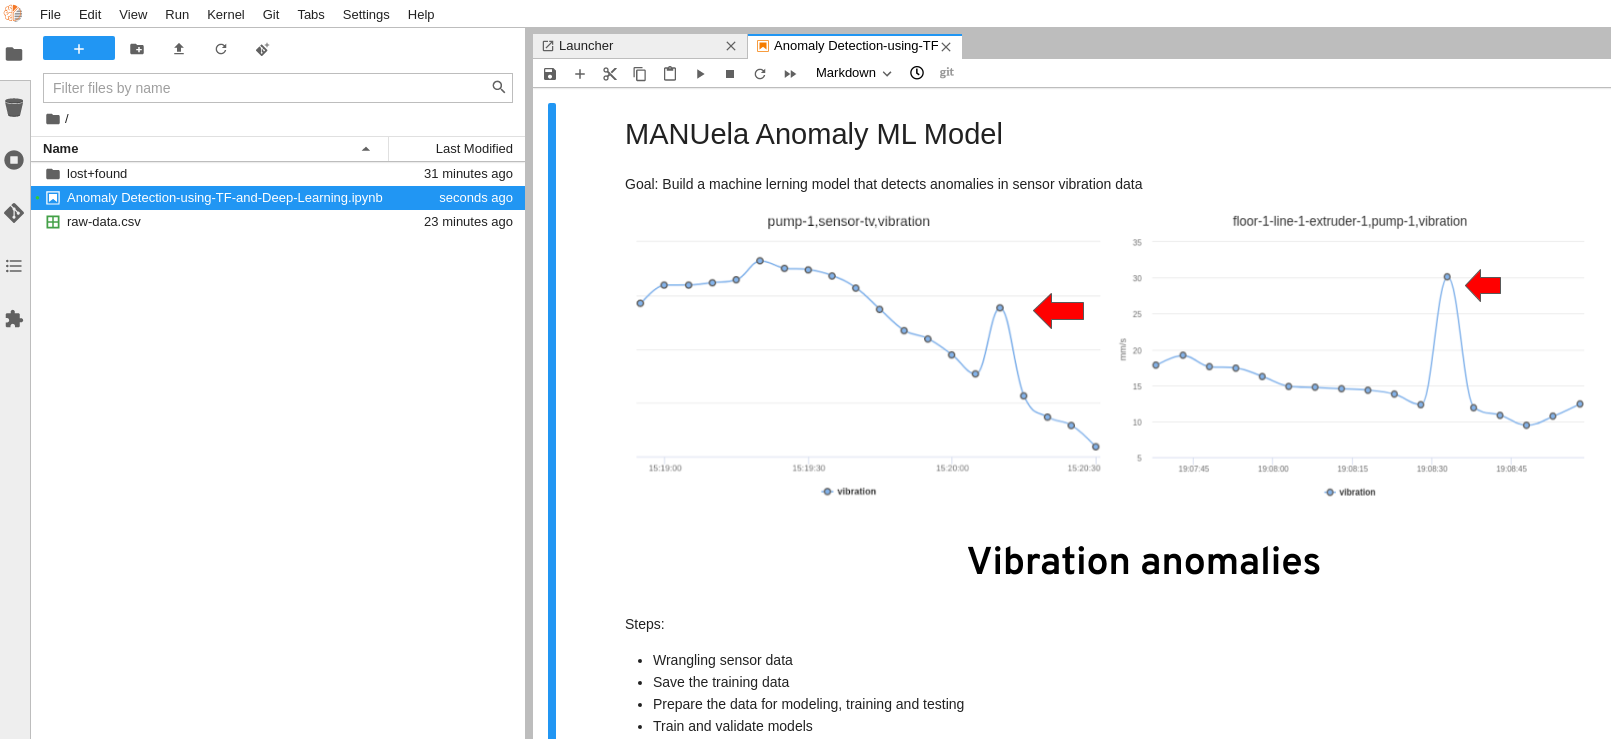
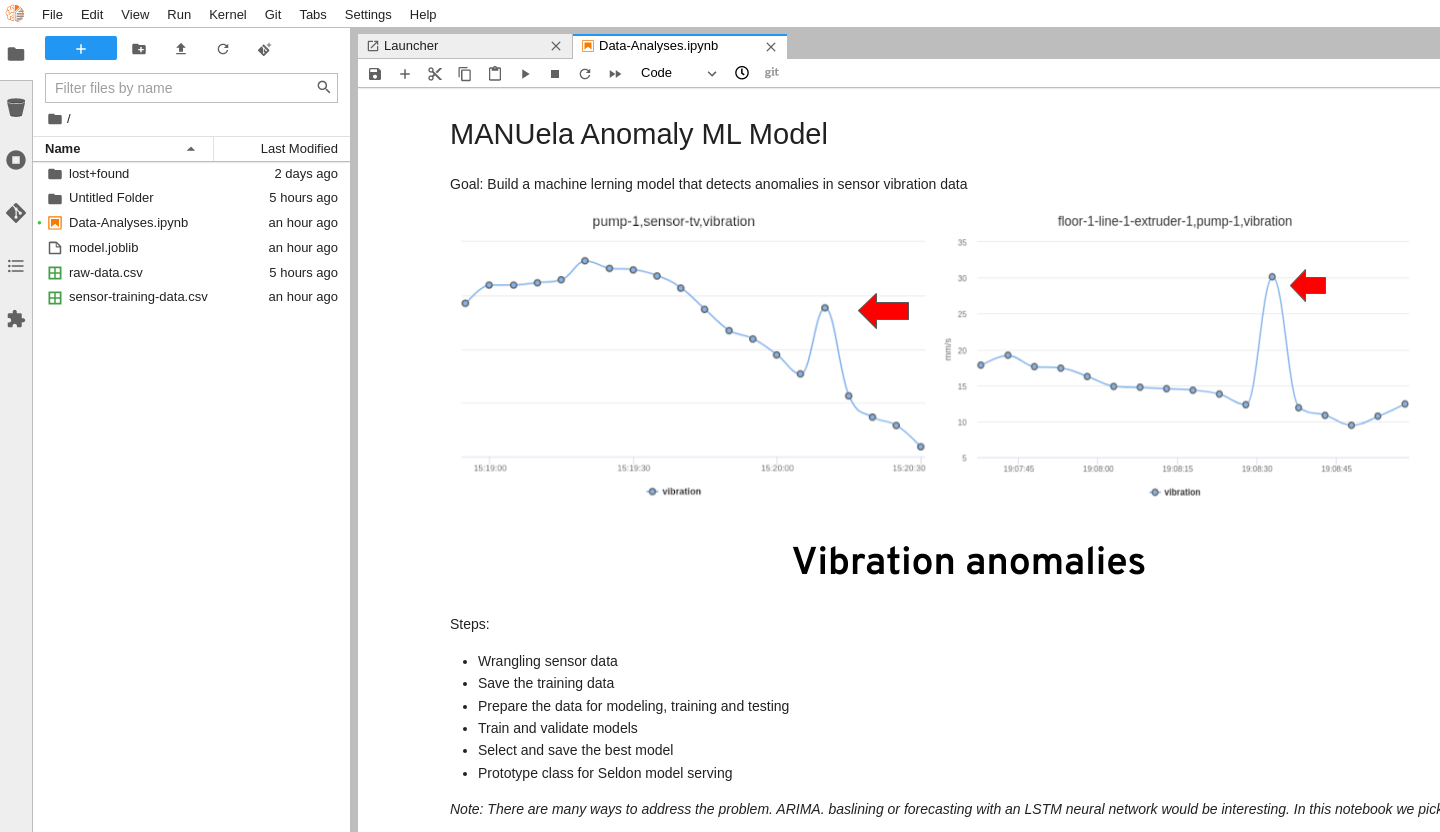
Added a getting started section and a new image. Updated other files.

diff --git a/industrial-edge/getting-started.md b/industrial-edge/getting-started.md
@@ -1,0 +1,206 @@
+---
+layout: default
+title: Getting Started
+grand_parent: Patterns
+parent: Industrial Edge
+nav_order: 3
+---
+
+# Demonstrating Industrial Edge example applications  
+{: .no_toc }
+
+## Table of contents
+{: .no_toc .text-delta }
+
+1. TOC
+{:toc}
+
+# Prerequisites
+
+1. An OpenShift cluster ( Go to https://console.redhat.com/openshift/create )
+1. (Optional) A second OpenShift cluster for edge/factory
+1. A github account (and a token for it with repos permissions, to read from and write to your forks)
+1. A quay account with the following repos set as public:
+- http-ionic
+- httpd-ionic
+- iot-anomaly-detection
+- iot-consumer
+- iot-frontend
+- iot-software-sensor
+5. The helm binary, see https://helm.sh/docs/intro/install/
+
+The use of this blueprint depends on having at least one running Red Hat
+OpenShift cluster. It is desirable to have a cluster for deploying the data
+center assets and a seperate cluster(s) for the factory assets.
+
+If you do not have a running Red Hat OpenShift cluster you can start one on a
+public or private cloud by using [Red Hat's cloud
+service](https://console.redhat.com/openshift/create).
+
+# How to deploy
+
+1. Fork the [manuela-dev](https://github.com/hybrid-cloud-patterns/manuela-dev) repo on GitHub.  It is necessary to fork this repo because the GitOps framework will push tags to this repo that match the versions of software that it will deploy.
+1. Fork this repo on GitHub. It is necessary to fork because your fork will be updated as part of the GitOps and DevOps processes.
+
+1. Clone the forked copy of this repo.
+
+   ```
+   git clone --recurse-submodules git@github.com:your-username/industrial-edge.git
+   ```
+
+1. Create a local copy of the Helm values file that can safely include credentials
+
+  DO NOT COMMIT THIS FILE
+
+  You do not want to push personal credentials to GitHub.
+   ```
+   cp values-secret.yaml.template ~/values-secret.yaml
+   vi ~/values-secret.yaml
+   ```
+
+1. Customize the deployment for your cluster
+
+   ```
+   vi values-global.yaml
+   git add values-global.yaml
+   git commit values-global.yaml
+   git push
+   ```
+
+1. Preview the changes
+   ```
+   make show
+   ```
+
+1. Login to your cluster using oc login or exporting the KUBECONFIG
+
+   ```
+   oc login
+   ```
+
+   or
+
+   ```
+   export KUBECONFIG=~/my-ocp-env/datacenter
+   ```
+
+1. Apply the changes to your cluster
+
+   ```
+   make install
+   ```
+
+1. Check the operators have been installed
+
+   ```
+   UI -> Installed Operators
+   ```
+
+1. Obtain the ArgoCD urls and passwords
+
+   The URLs and login credentials for ArgoCD change depending on the pattern
+   name and the site names they control.  Follow the instructions below to find
+   them, however you choose to deploy the pattern.
+
+   Display the fully qualified domain names, and matching login credentials, for
+   all ArgoCD instances:
+
+   ```
+   ARGO_CMD=`oc get secrets -A -o jsonpath='{range .items[*]}{"oc get -n "}{.metadata.namespace}{" routes; oc -n "}{.metadata.namespace}{" extract secrets/"}{.metadata.name}{" --to=-\\n"}{end}' | grep gitops-cluster`
+   CMD=`echo $ARGO_CMD | sed 's|- oc|-;oc|g'`
+   eval $CMD
+
+   ```
+
+   The result should look something like:
+
+   ```
+   NAME                       HOST/PORT                                                                                         PATH      SERVICES                   PORT    TERMINATION            WILDCARD
+   datacenter-gitops-server   datacenter-gitops-server-industrial-edge-datacenter.apps.mycluster.mydomain.com          datacenter-gitops-server   https   passthrough/Redirect   None
+   # admin.password
+   2F6kgITU3DsparWyC
+
+   NAME                    HOST/PORT                                                                                   PATH   SERVICES                PORT    TERMINATION            WILDCARD
+   factory-gitops-server   factory-gitops-server-industrial-edge-factory.apps.mycluster.mydomain.com          factory-gitops-server   https   passthrough/Redirect   None
+   # admin.password
+   K4ctDIm3fH7ldhs8p
+
+   NAME                      HOST/PORT                                                                              PATH   SERVICES                  PORT    TERMINATION            WILDCARD
+   cluster                   cluster-openshift-gitops.apps.mycluster.mydomain.com                          cluster                   8080    reencrypt/Allow        None
+   kam                       kam-openshift-gitops.apps.mycluster.mydomain.com                              kam                       8443    passthrough/None       None
+   openshift-gitops-server   openshift-gitops-server-openshift-gitops.apps.mycluster.mydomain.com          openshift-gitops-server   https   passthrough/Redirect   None
+   # admin.password
+   WNklRCD8EFg2zK034
+   ```
+
+   The most important ArgoCD instance to examine at this point is `data-center-gitops-server`. This is where all the applications for the datacenter, including the test environment, can be tracked.
+
+
+1. Check all applications are synchronised
+
+# Deploying the factory applications
+
+Once the data center has been setup correctly and confirmed to be working, it is time to attach one or more factories to the architecture (see diagrams below).
+
+For instructions on deploying the factory please read the following [document](http://hybrid-cloud-patterns.io/industrial-edge/factory/).
+
+# Pattern Layout and Structure
+
+https://slides.com/beekhof/hybrid-cloud-patterns
+
+# Uninstalling
+
+**Probably wont work**
+
+1. Turn off auto-sync
+
+   `helm upgrade manuela . --values ~/values-secret.yaml --set global.options.syncPolicy=Manual`
+
+1. Remove the ArgoCD applications (except for manuela-datacenter)
+
+   a. Browse to ArgoCD
+   a. Go to Applications
+   a. Click delete
+   a. Type the application name to confirm
+   a. Chose "Foreground" as the propagation policy
+   a. Repeat
+
+1. Wait until the deletions succeed
+
+   `manuela-datacenter` should be the only remaining application
+
+1. Complete the uninstall
+
+   `helm delete manuela`
+
+1. Check all namespaces and operators have been removed
+
+# More reading
+
+## General Hybrid Cloud Patterns reading
+
+For more general patterns documentation please refer to the hybrid cloud patterns docs [here](http://hybrid-cloud-patterns.io/).
+
+## Industrial Edge application demos
+
+Once the data center and the factory have been deployed you will want to check out and test the Industrial Edge 2.0 demo code. You can find that [here](http://hybrid-cloud-patterns.io/industrial-edge/application/) 
+
+# Diagrams
+
+The following diagrams show the different components deployed on the datacenter and the factory.
+
+## Logical
+
+![Logical](docs/images/manufacturing-logical.png)
+
+## Schematic with Networks
+
+![Schema - Networks](docs/images/manufacturing-schema-netw.png)
+
+## Schematic with Dataflows
+
+![Schema - Dataflow](docs/images/manufacturing-schema-df.png)
+
+## Editing the diagrams.
+
+To edit the diagrams in Draw.io you can load them [here](https://redhatdemocentral.gitlab.io/portfolio-architecture-tooling/index.html?#/portfolio-architecture-examples/projects/Mfg-AI-ML-0928.drawio) and save a local copy

diff --git a/industrial-edge/index.md b/industrial-edge/index.md
@@ -115,12 +115,9 @@ Check all OpenShift GitOps applications are synchronised
   a. Obtain the ArgoCD console urls and passwords
 
   ```
-  for name in openshift datacenter factory;
-  do
-    oc -n $name-gitops get route $name-gitops-server -o jsonpath='{.spec.host}'
-    echo
-    oc -n $name-gitops extract secrets/$name-gitops-cluster --to=-
-  done
+   ARGO_CMD=`oc get secrets -A -o jsonpath='{range .items[*]}{"oc get -n "}{.metadata.namespace}{" routes; oc -n "}{.metadata.namespace}{" extract secrets/"}{.metadata.name}{" --to=-\\n"}{end}' | grep gitops-cluster`
+   CMD=`echo $ARGO_CMD | sed 's|- oc|-;oc|g'`
+   eval $CMD
   ```
 
   a. Log in using the userid `admin` and the provided generated passowrd. There will be a number and check for green applications
@@ -128,6 +125,12 @@ Check all OpenShift GitOps applications are synchronised
 ## What Next
 
 - Add a dedicated cluster to [deploy the factory pieces using ACM](factory) 
+- Making [configuration changes](http://hybrid-cloud-patterns.io/industrial-edge/application/#configuration-changes-with-gitops) with GitOps
+- Making [application changes](http://hybrid-cloud-patterns.io/industrial-edge/application/#application-changes-using-devops) using DevOps
+- Making [AI/ML model changes](http://hybrid-cloud-patterns.io/industrial-edge/application/#application-ai-model-changes-with-devops) with DevOps
+
+### Other links for more information
+
 - Code change [preparation](https://github.com/sa-mw-dach/manuela/blob/master/docs/module-code-change.md#Demo-preparation) - [demo execution](https://github.com/sa-mw-dach/manuela/blob/master/docs/module-code-change.md#demo-execution)
 -  CI/CD pipeline & GitOps staging [preparation](https://github.com/sa-mw-dach/manuela/blob/master/docs/module-ci-cd-pipeline.md#Demo-preparation) - [demo execution](https://github.com/sa-mw-dach/manuela/blob/master/docs/module-ci-cd-pipeline.md#Demo-execution)
 - Event streaming from edge to core & filling the data lake [preparation](https://github.com/sa-mw-dach/manuela/blob/master/docs/module-event-streaming.md#Demo-preparation) - [demo execution](https://github.com/sa-mw-dach/manuela/blob/master/docs/module-event-streaming.md#Demo-execution)
@@ -136,9 +139,7 @@ Check all OpenShift GitOps applications are synchronised
 - Enterprise Container [preparation](https://github.com/sa-mw-dach/manuela/blob/master/docs/module-enterprise-container.md#Demo-preparation) - [demo execution](https://github.com/sa-mw-dach/manuela/blob/master/docs/module-enterprise-container.md#Demo-execution)
 - Multi Cluster Management [preparation](https://github.com/sa-mw-dach/manuela/blob/master/docs/module-multicluster.md#Demo-preparation) - [demo execution](https://github.com/sa-mw-dach/manuela/blob/master/docs/module-multicluster.md#Demo-execution)
 
-
 ## Uninstalling
 
-Follow the instructions in the [Git
-repo](https://github.com/hybrid-cloud-patterns/industrial-edge#uninstalling)
+Follow the instructions in the [Gitrepo](https://github.com/hybrid-cloud-patterns/industrial-edge#uninstalling)
 containing the complete configuration.

diff --git a/industrial-edge/application.md b/industrial-edge/application.md
@@ -3,7 +3,7 @@ layout: default
 title: Application Demos
 grand_parent: Patterns
 parent: Industrial Edge
-nav_order: 4
+nav_order: 5
 ---
 
 # Demonstrating Industrial Edge example applications  
@@ -123,9 +123,9 @@ Now its time to kick off the CI pipeline. Due to the need for GitHub secrets and
 make build-and-test
 ```
 
-*NOTE TO VP team: This will change after Monday November 15th when two new micro pipelines will be deployed for the pattern for: iot-consumer and iot-anomaly-detection. I will change this section then*
-
 This build takes some time because the pipeline is rebuilding all the images. You can monitor the pipeline's progress in the Openshift console's pipelines section.
+
+Alternatively you can can try and run the shorter build-iot-consumer pipeline run in the OpenShift console. This should just run and test the specific application.  
 
 [![](/images/industrial-edge/build-and-test-pipeline.png)](/images/industrial-edge/build-and-test-pipeline.png)
 
@@ -164,7 +164,7 @@ At the bottom of the screen there is a start server. Just use the default values
 
 On the next screen upload the following files:
 
-* Anomoloy Detection-using-TF-and-Deep-Learning.ipynb
+* Data-Analyses.ipynb
 * raw-data.cvs 
 
 [![](/images/industrial-edge/upload-ml-files.png)](/images/industrial-edge/upload-ml-files.png)
@@ -173,5 +173,9 @@ On the next screen upload the following files:
 Open the Anomaly Detection notebook by double clicking.
 
 [![](/images/industrial-edge/anomaly-detection-notebook.png)](/images/industrial-edge/anomaly-detection-notebook.png)
+
+After opening sucessfully walk through the demonstration by pressing play and iterating through the commands in the playbook. Jupyter playbooks are interactive and you may make changes and save them.
+
+[![](/images/industrial-edge/play-the-notebook.png)](/images/industrial-edge/play-the-notebook.png)
 
 

diff --git a/industrial-edge/factory.md b/industrial-edge/factory.md
@@ -3,7 +3,7 @@ layout: default
 title: Factory Sites
 grand_parent: Patterns
 parent: Industrial Edge
-nav_order: 3
+nav_order: 4
 ---
 
 # Having a factory (edge) cluster join the datacenter (hub) 

diff --git a/industrial-edge/troubleshooting.md b/industrial-edge/troubleshooting.md
@@ -3,7 +3,7 @@ layout: default
 title: Troubleshooting
 grand_parent: Patterns
 parent: Industrial Edge
-nav_order: 4
+nav_order: 6
 ---
 
 # Troubleshooting
